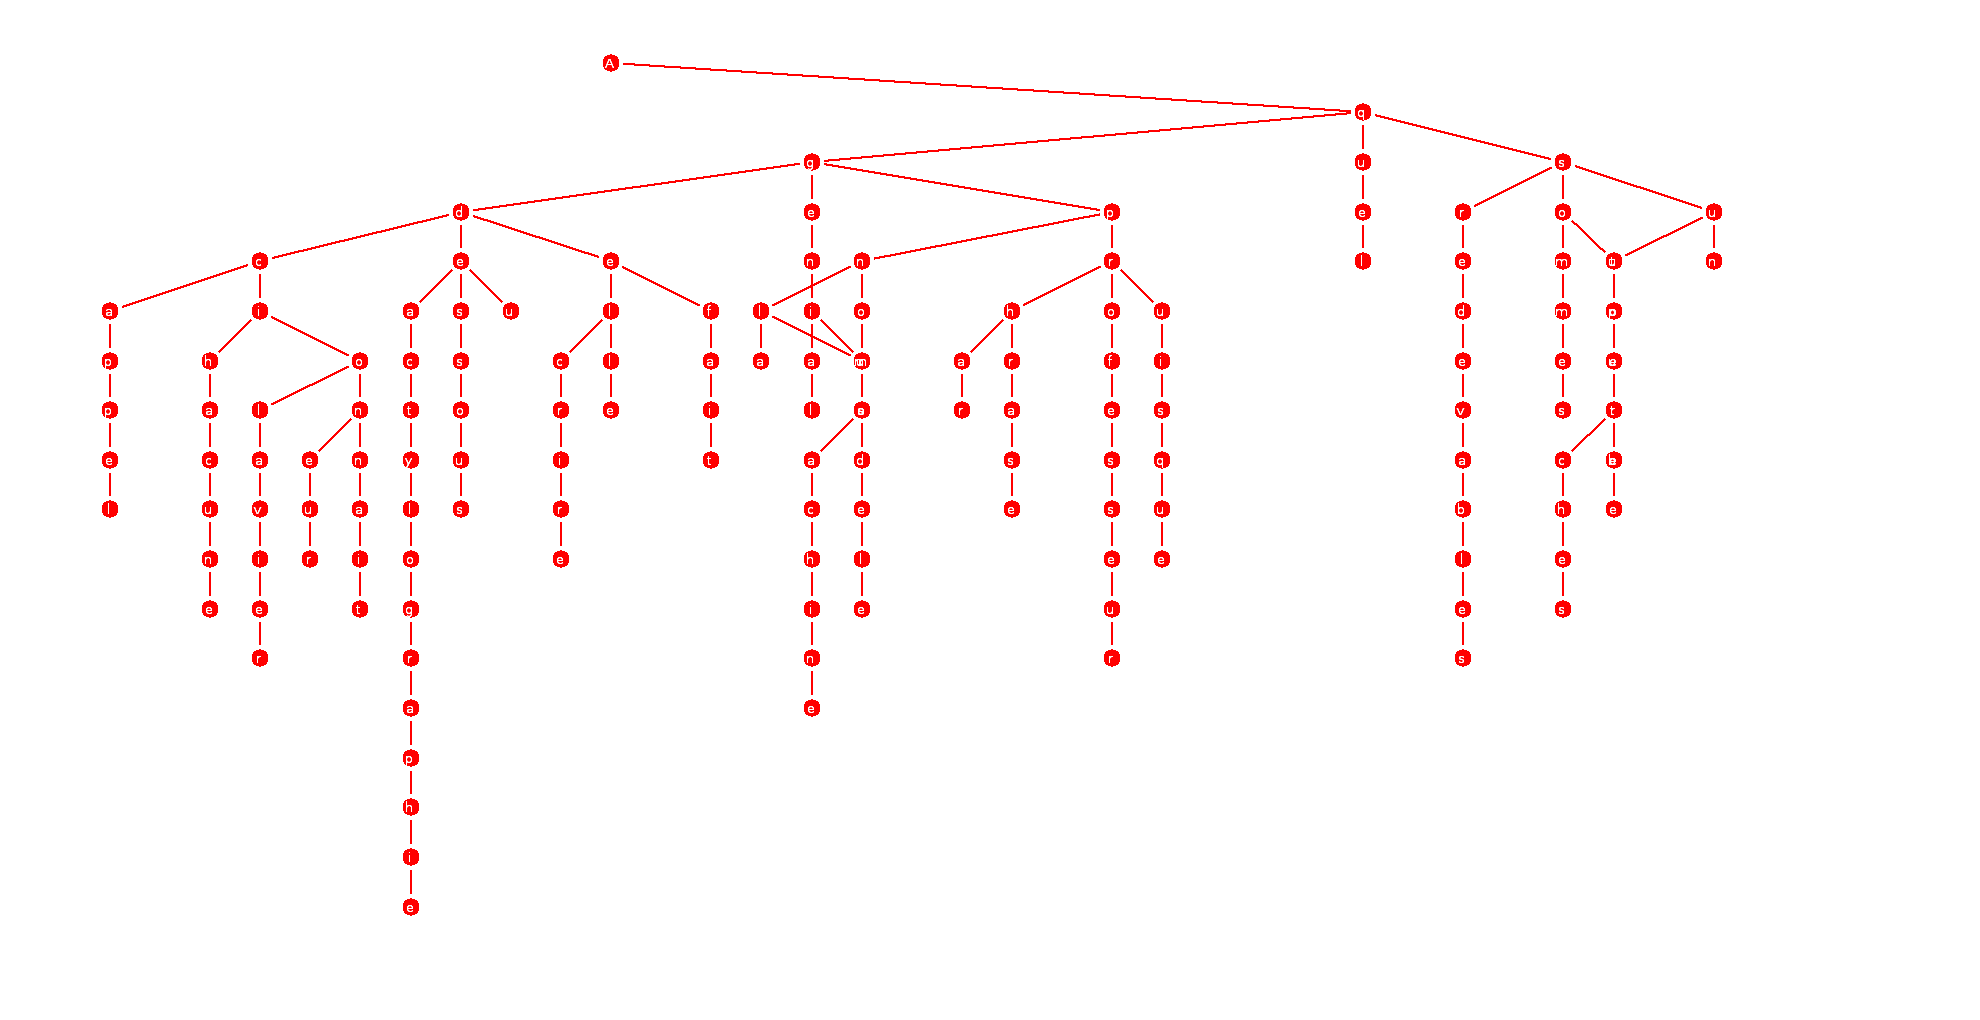
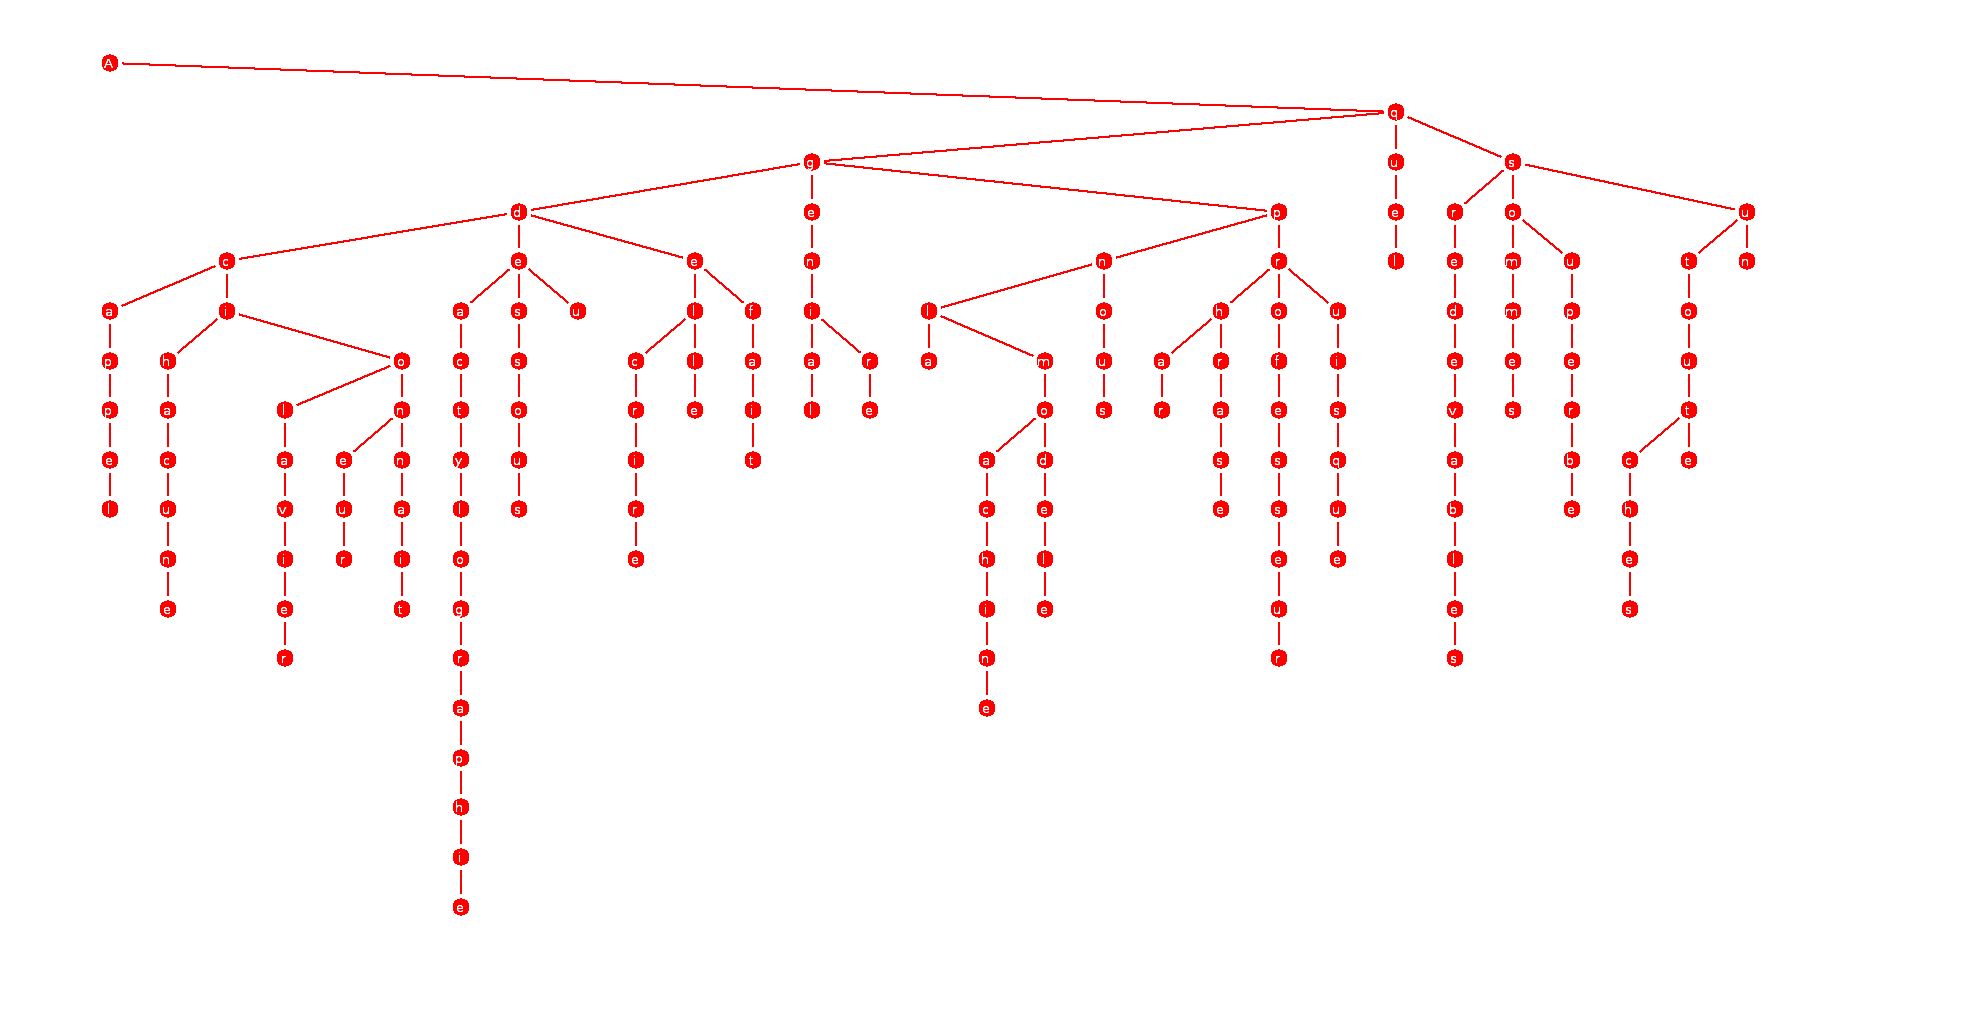
Tries plotting finished

diff --git a/src/Hybrid_Tries/HTrie.c b/src/Hybrid_Tries/HTrie.c
@@ -270,6 +270,25 @@ int width(HTrie * T){
 	}
 }
 
+int width_left(HTrie * T){
+
+	if(T == NULL){
+		return 0;
+	}
+	else { 
+		return width_left(T->eq) + width(T->inf);
+	}
+}
+
+int width_right(HTrie * T){
+	if(T == NULL){
+		return 0;
+	}
+	else {
+		return width_right(T->eq) + width(T->sup);
+	}
+}
+
 void inside_plot_file(HTrie * T, int x, int y){
 
 	/*	if(T == NULL)
@@ -310,14 +329,14 @@ void inside_plot_file(HTrie * T, int x, int y){
 	int w = w_inf + w_eq + w_sup;
 
 	printf("%c %d %d\n", T->key, x, y);
-	inside_plot_file(T->inf, x - (w_eq / 2 + w_inf / 2 + 1) * D_X, y + D_Y);
+	inside_plot_file(T->inf, x - (width_left(T->eq) + width_right(T->inf) + 1) * D_X, y + D_Y);
 
 	printf("%c %d %d\n", T->key, x, y);
 	inside_plot_file(T->eq, x, y + D_Y);
 	
 	printf("%c %d %d\n", T->key, x, y);
 
-	inside_plot_file(T->sup, x + (w_eq / 2 + w_sup / 2 + 1) * D_X, y + D_Y);
+	inside_plot_file(T->sup, x + (width_right(T->eq) + width_left(T->sup)+ 1) * D_X, y + D_Y);
 
 	printf("\n");
 
